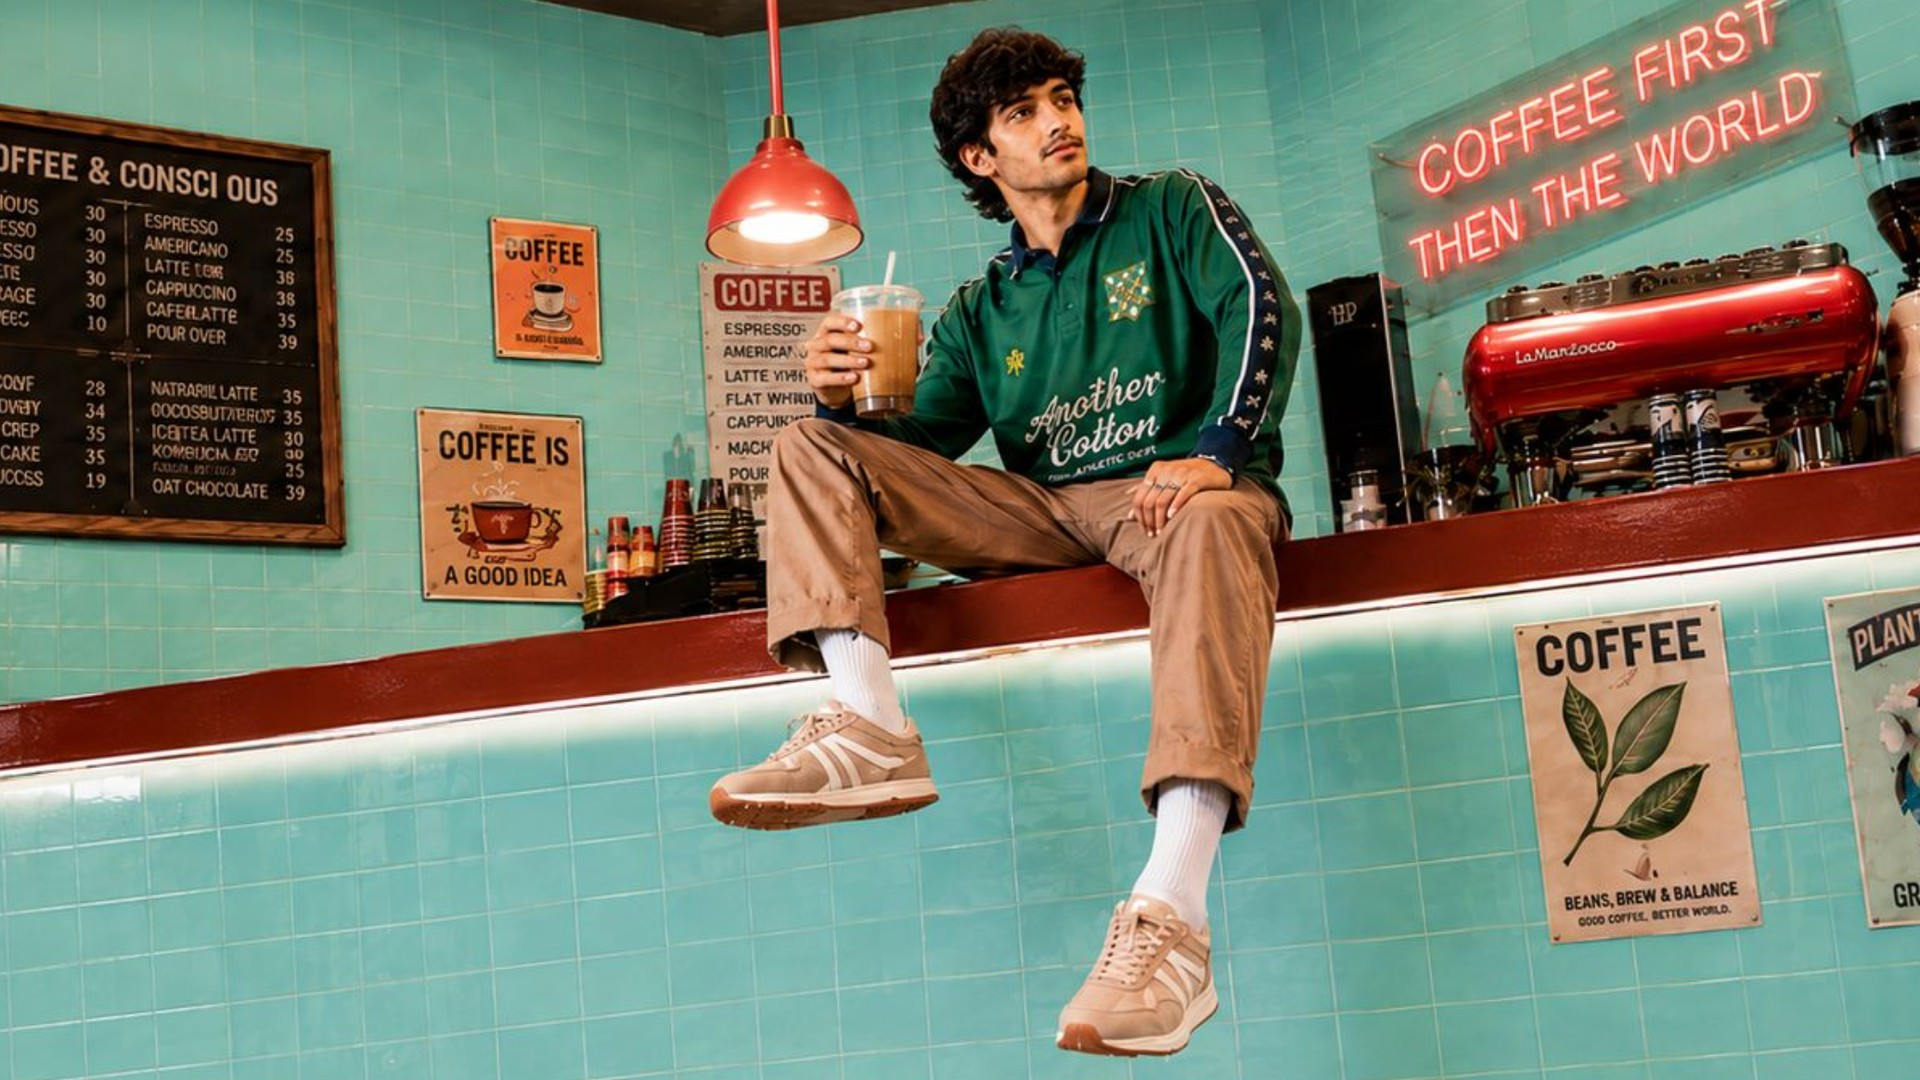
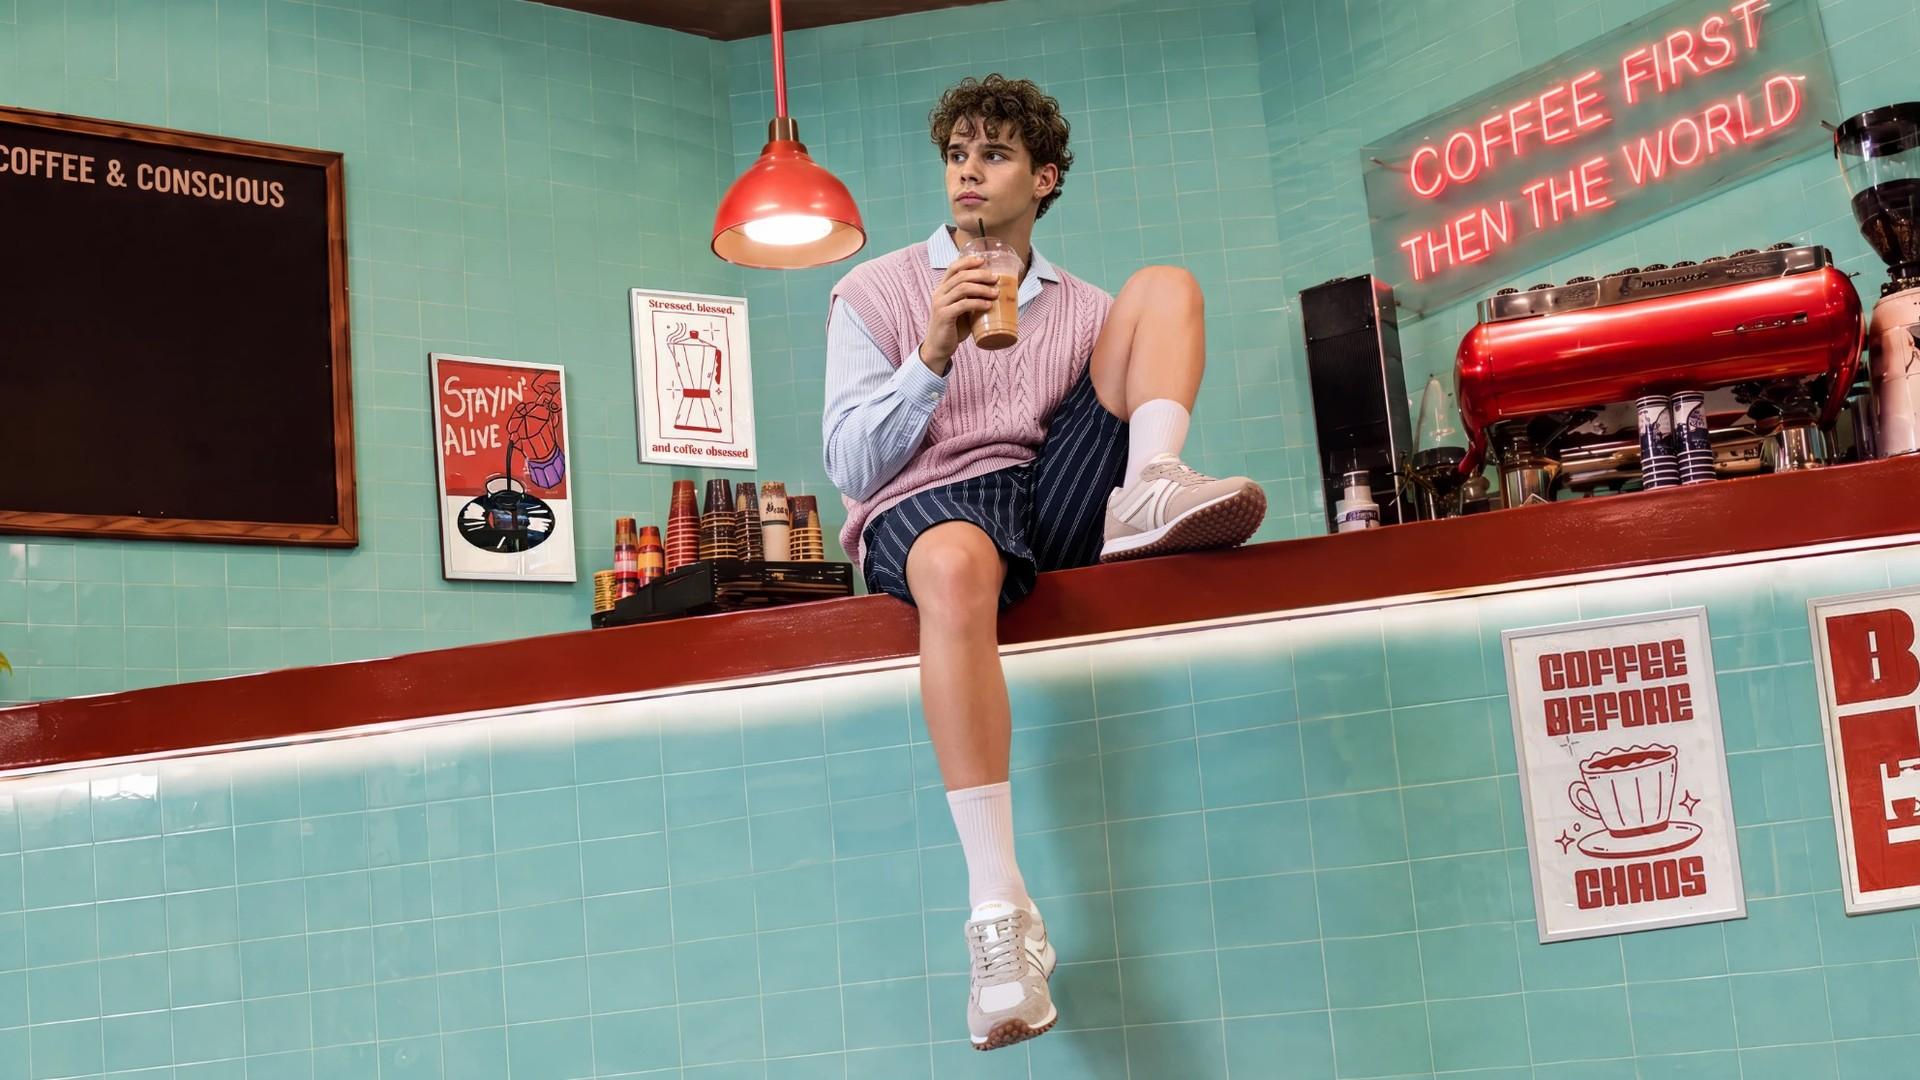
Control Zindagi narrative plan and editor role; Six Sigma card; polish
- Control Zindagi: pre-production narrative plan section; editor role (cuts, sound & AV mix)
- Lean Six Sigma: one card with links to the three course certificates
- The Silent Service: Nano Banana title translation, Claude research, press-release key art
- Sentier marked as a practice piece; Coffee bar before/after swapped; hero photo zoom

diff --git a/src/data/recentWorks.tsx b/src/data/recentWorks.tsx
@@ -117,24 +117,25 @@ export const recentWorks: RecentWork[] = [
             <b>Languages</b> Japanese → English
           </span>
           <span>
-            <b>Tools</b> Photoshop · Gemini Nano Banana 2 · Premiere Pro · Claude
+            <b>Tools</b> Photoshop with Gemini Nano Banana · Premiere Pro · Claude (research)
           </span>
         </p>
         <h4>Reading the intent first:</h4>
         <p>
-          I researched the film and took the theme from Prime Video’s press release for the second film, so every
-          format carries the same story and tone as the source.
+          I researched the film with Claude, and took the official Japanese key art from Prime Video’s press release
+          for the second film as the master, so every format carries the same story and tone as the source.
         </p>
         <h4>What I did:</h4>
         <ul>
           <li>
-            <b>English localization (16:9):</b> rebuilt the title lockup, subtitle and billing in English in the same
-            position and visual weight as the Japanese master; the cast, submarine and ice stay untouched.
+            <b>English localization (16:9):</b> translated the title from Japanese to English with Gemini Nano Banana
+            in Photoshop, then refined the lockup, subtitle and billing to match the Japanese master’s position and
+            visual weight; the cast, submarine and ice stay untouched.
           </li>
           <li>
             <b>Poster 2:3 and Cover 1:1:</b> recomposed the wide art for tall and square frames: the cast grouped at
-            the top, the submarine as the centre of action, and the title lockup moved to the lower third. The
-            background was extended with Gemini Nano Banana 2 and finished in Photoshop.
+            the top, the submarine as the centre of action, and the title lockup moved to the lower third, finished
+            in Photoshop.
           </li>
           <li>
             <b>Japanese versions:</b> the same compositions with the Japanese calligraphic title and subtitle, so both
@@ -298,7 +299,7 @@ export const recentWorks: RecentWork[] = [
             <b>Award</b> Amazon Bash 2019
           </span>
           <span>
-            <b>My role</b> Writer, director, editor · key art
+            <b>My role</b> Writer, director, editor (cuts, sound &amp; AV mix) · key art
           </span>
           <span>
             <b>Formats</b> 2:3 · 9:16 · 16:9
@@ -331,6 +332,40 @@ export const recentWorks: RecentWork[] = [
             hint at the ending, and the title held low across the centre.
           </li>
         </ul>
+        <h4>The narrative plan (pre-production):</h4>
+        <p>
+          Before the shoot I wrote a scene-by-scene plan, working title <i>CTRL Z</i>, listing the cast, props (a red
+          car, a box of beer bottles) and a shot list for every scene. The story is built to turn from fun to
+          consequence, then rewind:
+        </p>
+        <ol>
+          <li>
+            <b>The invite:</b> a WhatsApp group chat (“Today is Sneha’s marriage, we need to reach Hyderabad by
+            evening”), with each friend replying in character.
+          </li>
+          <li>
+            <b>Five introductions:</b> each friend is introduced in their own space, mid-routine (yoga, work on a
+            laptop, a workout, still asleep), and the car picks them up one by one; the late sleeper is the running gag.
+          </li>
+          <li>
+            <b>The highway song:</b> wide road shots and in-car moments cut to the song: cheering, a shared dance step,
+            waving out of the windows, a stop at a mountain view.
+          </li>
+          <li>
+            <b>Engine trouble:</b> the song ends and the tone shifts to suspense and comedy. Sent for the tool kit, one
+            friend opens the trunk and finds the beer.
+          </li>
+          <li>
+            <b>The choice:</b> each friend takes a bottle, the party song plays and the car speeds towards Hyderabad,
+            past the city board and onto a flyover, until the car flips.
+          </li>
+          <li>
+            <b>Breaking news:</b> a news reader on green screen reports that drunk passengers met with an accident.
+          </li>
+          <li>
+            <b>Rewind:</b> the film rewinds to the moment the trunk opened, and closes on “There is no Ctrl Z in life”.
+          </li>
+        </ol>
         <p>
           <b>Credits:</b> Written, directed &amp; edited by Seetha Rama Swamy · Cinematography: Namish Kashyap · Story:
           Dheeraj Jha

diff --git a/src/data/artwork.ts b/src/data/artwork.ts
@@ -67,7 +67,7 @@ export const corrections: BeforeAfter[] = [
   {
     title: "The Silent Service — Japanese key art localized to English (16:9)",
     description:
-      "The official Japanese 16:9 key art for the Prime Original's second film, localized to English: the title lockup, subtitle and billing rebuilt in English in the same position and visual weight, with the cast, submarine and ice untouched. Self-initiated spec exercise — not an official release. Source key art and trailer © Amazon and the rights holders.",
+      "The official Japanese 16:9 key art for the Prime Original's second film, localized to English: the title translated with Gemini Nano Banana in Photoshop, then the lockup, subtitle and billing refined to the same position and visual weight, with the cast, submarine and ice untouched. Self-initiated spec exercise — not an official release. Source key art and trailer © Amazon and the rights holders.",
     before: "images/artwork/key-art/silent-service/jp-16x9.jpg",
     after: "images/artwork/key-art/silent-service/en-16x9.jpg",
     fixes: ["Title localization", "Billing & date", "Layout and weight kept", "Art untouched"],
@@ -156,14 +156,14 @@ export const series: BeforeAfterSeries[] = [
 
 export const figmaWork: FigmaWork[] = [
   {
-    title: "Sentier — agency website concept: hero",
+    title: "Sentier — agency website concept: hero (practice piece)",
     description:
       "A split-screen hero for a research and design agency: “Research” and “Design” as two bold halves, light and dark, joined by one line about working across disciplines.",
     src: "images/artwork/figma/sentier-hero.jpg",
     link: "https://www.figma.com/design/GSuKS7B1Sc6F47ty1nsu3C/WS?node-id=0-1",
   },
   {
-    title: "Sentier — agency website concept: about",
+    title: "Sentier — agency website concept: about (practice piece)",
     description:
       "The about section: team photography masked into the four brand shapes (circle, triangle, square, circle) from the logo, each with its own colour outline.",
     src: "images/artwork/figma/sentier-about.jpg",

diff --git a/src/data/education.ts b/src/data/education.ts
@@ -9,6 +9,8 @@ export interface Cert {
   issued: string;
   /** Certificate file or page. */
   href: string;
+  /** One card for a series: a link per course certificate (replaces the single link). */
+  parts?: { label: string; href: string }[];
   /** Issuer's verification page, when there is one. */
   verify?: string;
   image: string;
@@ -147,6 +149,22 @@ export const eduCertItems: EduCertItem[] = [
     verify: "https://www.coursera.org/account/accomplishments/professional-cert/certificate/ISI5YF8CP0EE",
     image: "certificates/google-project-management-professional-certificate-.1.png",
     alt: "Google PM",
+  },
+  {
+    kind: "cert",
+    title: "Lean Six Sigma — DMAIC series (3 courses)",
+    credential: "LinkedIn Learning",
+    isCredentialId: false,
+    group: "Design & professional",
+    issued: "May 2025",
+    href: "https://www.linkedin.com/learning/certificates/afbe4a00159b3a9e5c6dcd5f5f8729a0a9ef64e10c02cf8be4b623d8e021bcd6",
+    parts: [
+      { label: "Foundations", href: "https://www.linkedin.com/learning/certificates/afbe4a00159b3a9e5c6dcd5f5f8729a0a9ef64e10c02cf8be4b623d8e021bcd6" },
+      { label: "Define & Measure", href: "https://www.linkedin.com/learning/certificates/8be92a4adea987a52e6d14a746502f4d5e07939343913f676714cc46e6f83be2" },
+      { label: "Analyze, Improve & Control", href: "https://www.linkedin.com/learning/certificates/2872d027a814dc6c82d69480ae156301588a81652d92b91ff8a49f35fe459818" },
+    ],
+    image: "icons/social/linkedin.png",
+    alt: "LinkedIn Learning",
   },
   {
     kind: "education",

diff --git a/src/views/CredentialsView.tsx b/src/views/CredentialsView.tsx
@@ -13,7 +13,8 @@ export function CredentialsView() {
           </h1>
         </div>
         <p className="view-note">
-          {certs.length} certifications across Gen AI, prompt engineering, UX, project management and Python.
+          {certs.length} certifications across Gen AI, prompt engineering, UX, project management, Lean Six Sigma and
+          Python.
         </p>
       </div>
 
@@ -46,9 +47,17 @@ function CertCard({ cert: c }: { cert: Cert }) {
         <code>{c.credential}</code>
       </p>
       <div className="cert__links">
-        <a href={c.href} target="_blank" className="text-link">
-          View certificate ↗
-        </a>
+        {c.parts ? (
+          c.parts.map((p) => (
+            <a key={p.href} href={p.href} target="_blank" className="text-link">
+              {p.label} ↗
+            </a>
+          ))
+        ) : (
+          <a href={c.href} target="_blank" className="text-link">
+            View certificate ↗
+          </a>
+        )}
         {c.verify && (
           <a href={c.verify} target="_blank" className="text-link text-link--muted">
             Verify ↗

diff --git a/src/data/projectMeta.ts b/src/data/projectMeta.ts
@@ -35,7 +35,7 @@ export const projectMeta: Record<string, ProjectMeta> = {
   "control-zindagi": {
     kicker: "Film & TV artwork",
     summary: "Key art for my award-winning short film: poster, vertical and background.",
-    tags: ["Amazon Bash 2019", "Writer · director", "3 formats"],
+    tags: ["Amazon Bash 2019", "Writer · director · editor", "3 formats"],
     cover: "images/artwork/key-art/control-zindagi/background-16x9.jpg",
   },
   "the-queen-of-florence": {

diff --git a/src/styles/main.css b/src/styles/main.css
@@ -3944,3 +3944,9 @@ font-size: var(--fs-sm);
     bottom: 6px;
   }
 }
+
+/* Hero photo: a gentle zoom anchored at the bottom trims the empty white above the head */
+.hero__photo img {
+  transform: scale(1.14);
+  transform-origin: 58% 100%;
+}
